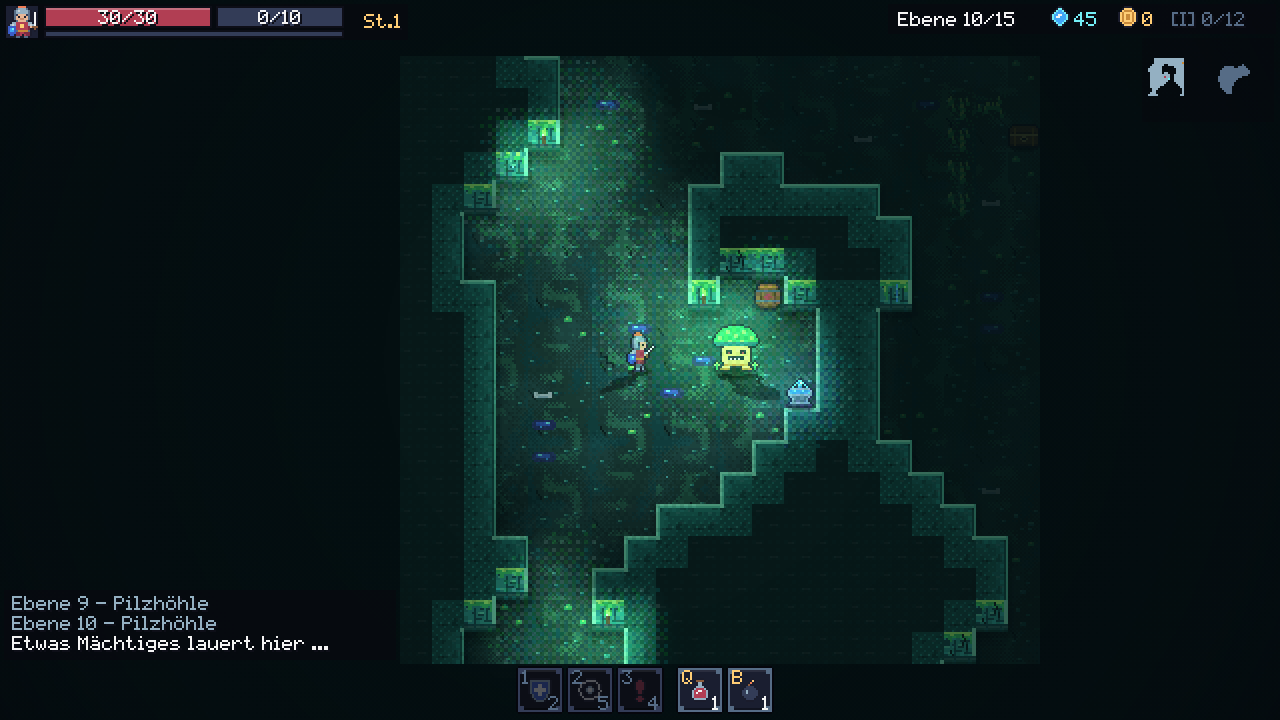
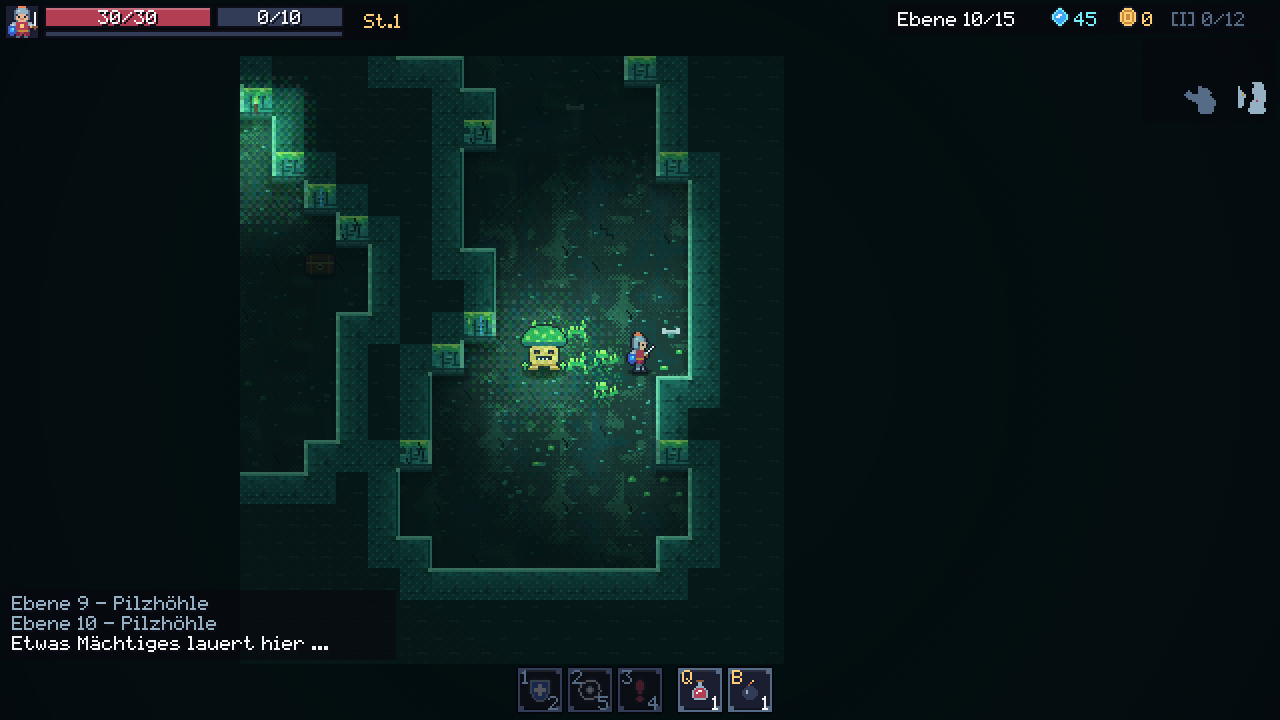
Ohne Schlagschatten der Figuren; Dekor mit Abstand und nur an passenden Stellen
- Schlagschatten von Figuren entfernt (sprangen mit dem Flackern zwischen Flammen hin und her);
  Licht und Bodenschatten bleiben
- Dekor: höchstens ein Stück im Umkreis von 4 Feldern, insgesamt seltener;
  Wanddekor nur auf gerader Wandstrecke und nicht neben Fackeln, Wandfuß nur in Räumen
  ab drei Feldern Tiefe, Bodendekor nur in großen Räumen (5×5 frei)
- Platzierung je Ebene zwischengespeichert, neu bei Kartenänderung
- Test: Mindestabstand und strengere Regeln

Claude-Session: https://claude.ai/code/session_01TMNu2fsQ35aYg53JpeGmq3

diff --git a/src/render/props.ts b/src/render/props.ts
@@ -136,27 +136,62 @@ function sets(): BiomeProps[] {
 }
 
 // ---- Platzierung (rein, testbar) ----
+// Erst Kandidaten nach festen Regeln, dann Abstand: von Kandidaten, die näher als SPACING Felder
+// beieinanderliegen, bleibt nur einer (der mit dem größten Hash) – keine Häufchen gleicher Dinge.
 export type PropKind = 'wall' | 'foot' | 'flat';
+export interface PropSpot { kind: PropKind; pick: number; }
+export const SPACING = 4;
 const hp = (x: number, y: number, s: number) => (Math.imul(x, 73856093) ^ Math.imul(y, 19349663) ^ Math.imul(s, 83492791)) >>> 0;
 
-// Welche Art Dekor gehört auf dieses Feld? null = keins
-export function propAt(tiles: Uint8Array, seed: number, x: number, y: number): { kind: PropKind; pick: number } | null {
-  if (x < 1 || y < 1 || x >= W - 1 || y >= H - 1) return null;
+function candidate(tiles: Uint8Array, seed: number, x: number, y: number): (PropSpot & { h: number }) | null {
+  if (x < 2 || y < 2 || x >= W - 2 || y >= H - 2) return null;
   const i = y * W + x, t = tiles[i], h = hp(x, y, seed);
-  const wall = (dx: number, dy: number) => wallLike(tiles[i + dy * W + dx]);
+  const at = (dx: number, dy: number) => tiles[i + dy * W + dx];
+  const wallAt = (dx: number, dy: number) => wallLike(at(dx, dy));
+  const free = (dx: number, dy: number) => !opaque(at(dx, dy)) && !wallLike(at(dx, dy));
   if (t === T.WALL) {
-    // Wandfront: unten offener Boden
-    return !wallLike(tiles[i + W]) && h % 4 === 0 ? { kind: 'wall', pick: h >>> 5 } : null;
+    // Wandfront auf gerader Strecke: links und rechts ebenfalls Front, kein Durchgang, keine Ecke
+    const front = (dx: number) => at(dx, 0) === T.WALL && free(dx, 1);
+    return front(0) && front(-1) && front(1) && h % 6 === 0 ? { kind: 'wall', pick: h >>> 5, h } : null;
   }
   if (t !== T.FLOOR) return null;
-  // am Wandfuß: Wand darüber, links, rechts und darunter frei – nie in einem Gang
-  if (wall(0, -1) && !wall(-1, 0) && !wall(1, 0) && !wall(0, 1) && !opaque(tiles[i + W]) && h % 5 === 0) return { kind: 'foot', pick: h >>> 5 };
-  // mitten im Raum: alle acht Nachbarn offen
-  for (let dy = -1; dy <= 1; dy++) for (let dx = -1; dx <= 1; dx++) if ((dx || dy) && opaque(tiles[i + dy * W + dx])) return null;
-  return h % 17 === 0 ? { kind: 'flat', pick: h >>> 5 } : null;
+  // am Fuß einer geraden Wand in einem Raum, der mindestens drei Felder tief ist
+  if (wallAt(-1, -1) && wallAt(0, -1) && wallAt(1, -1) && free(-1, 0) && free(1, 0) && free(0, 1) && free(-1, 1) && free(1, 1) && free(0, 2))
+    return h % 8 === 0 ? { kind: 'foot', pick: h >>> 5, h } : null;
+  // flach im Boden nur in großen Räumen: 5×5 ringsum frei
+  for (let dy = -2; dy <= 2; dy++) for (let dx = -2; dx <= 2; dx++) if (!free(dx, dy)) return null;
+  return h % 23 === 0 ? { kind: 'flat', pick: h >>> 5, h } : null;
 }
 
-export function drawProp(ctx: CanvasRenderingContext2D, bi: number, p: { kind: PropKind; pick: number }, x: number, y: number, dx: number, dy: number, time: number, lights: Light[]) {
+// Dekor der ganzen Ebene; zwischengespeichert, neu berechnet, sobald sich die Karte ändert
+let cache: { seed: number; tiles: Uint8Array; map: (PropSpot | null)[] } | null = null;
+export function propsFor(tiles: Uint8Array, seed: number): (PropSpot | null)[] {
+  if (cache && cache.seed === seed && cache.tiles.length === tiles.length) {
+    let same = true;
+    for (let i = 0; i < tiles.length; i++) if (cache.tiles[i] !== tiles[i]) { same = false; break; }
+    if (same) return cache.map;
+  }
+  const cand: ((PropSpot & { h: number }) | null)[] = new Array(W * H).fill(null);
+  for (let y = 0; y < H; y++) for (let x = 0; x < W; x++) cand[y * W + x] = candidate(tiles, seed, x, y);
+  const map: (PropSpot | null)[] = new Array(W * H).fill(null);
+  for (let y = 0; y < H; y++) for (let x = 0; x < W; x++) {
+    const c = cand[y * W + x];
+    if (!c) continue;
+    let best = true;
+    for (let dy = -SPACING; dy <= SPACING && best; dy++) for (let dx = -SPACING; dx <= SPACING; dx++) {
+      const nx = x + dx, ny = y + dy;
+      if ((!dx && !dy) || nx < 0 || ny < 0 || nx >= W || ny >= H) continue;
+      const o = cand[ny * W + nx];
+      if (o && (o.h > c.h || (o.h === c.h && ny * W + nx < y * W + x))) { best = false; break; }
+    }
+    if (best) map[y * W + x] = { kind: c.kind, pick: c.pick };
+  }
+  cache = { seed, tiles: tiles.slice(), map };
+  return map;
+}
+export const propAt = (tiles: Uint8Array, seed: number, x: number, y: number) => propsFor(tiles, seed)[y * W + x];
+
+export function drawProp(ctx: CanvasRenderingContext2D, bi: number, p: PropSpot, x: number, y: number, dx: number, dy: number, time: number, lights: Light[]) {
   const list = sets()[bi][p.kind], prop = list[p.pick % list.length];
   const f = prop.frames.length > 1 ? Math.floor(time * 4 + x * 0.7 + y) % prop.frames.length : 0;
   ctx.drawImage(prop.frames[f], dx, dy);

diff --git a/src/render/draw.ts b/src/render/draw.ts
@@ -5,9 +5,9 @@ import { threatOf, statusMarks } from './warn';
 import { onDeath, drawDecals, drawDying, resetDeaths, reducedFx } from './deaths';
 import { drawItemIcon, drawIcon, PERK_ICON } from './icons';
 import { Light, applyLight, AMBIENTS } from './light';
-import { dropShadow, drawAO, castFrom, castShadow, beginShadows, flushShadows } from './shade';
+import { dropShadow, drawAO } from './shade';
 import { floorTint, softEdged } from './tiles';
-import { propAt, drawProp, recolor } from './props';
+import { propsFor, drawProp, recolor } from './props';
 import { stepAmbient, drawAmbient, drawFog, resetAmbient, postFx } from './ambient';
 
 // Arena des Bosses: Fackeln brennen in seiner Farbe [außen, Kern], dazu eine Aura um ihn
@@ -186,9 +186,9 @@ export function drawRun(ctx: CanvasRenderingContext2D, run: Run, dt: number, tim
   view.ox = ox - sx; view.oy = oy - sy;
   ctx.fillStyle = '#08090f'; ctx.fillRect(0, 0, VW, VH);
   const bio = biomeOf(run.floor), ts = tilesets[bio], boss = run.floor % 5 === 0, fx = !reducedFx();
+  const props = propsFor(run.tiles, run.seed + run.floor);
   buildLight(run);
   const lights: Light[] = [], floorTiles: number[] = [];
-  beginShadows(VW, VH);
   const flick = (n: number) => 0.92 + 0.08 * Math.sin(time * 9 + n) + 0.04 * Math.sin(time * 23 + n * 1.7);
   const x0 = Math.max(0, Math.floor(cam.x / TS) - 1), x1 = Math.min(W - 1, x0 + VW / TS + 2);
   const y0 = Math.max(0, Math.floor(cam.y / TS) - 1), y1 = Math.min(H - 1, y0 + Math.ceil(VH / TS) + 2);
@@ -225,9 +225,9 @@ export function drawRun(ctx: CanvasRenderingContext2D, run: Run, dt: number, tim
         const tf = Math.floor(time * 7 + x) % 2;
         ctx.drawImage(boss ? torchOf(bio, tf) : sprites[`torch${tf}`], dx, dy);
         lights.push({ x, y: y + 0.6, r: (boss ? 5.5 : 5) * flick(i), col: boss ? BOSS_FLAME[bio][0] : '#ef7d57' });
-      } else if (front && hv < 5 && t === T.WALL) {
+      } else if (front && hv < 5 && t === T.WALL && !torches.has(i - 1) && !torches.has(i + 1)) {
         // Wanddekor (Ketten, Banner, Wurzeln …) nur auf der schlichten Grundwand
-        const pr = propAt(run.tiles, run.seed + run.floor, x, y);
+        const pr = props[i];
         if (pr) drawProp(ctx, bio, pr, x, y, dx, dy, time, lights);
       }
     } else {
@@ -242,7 +242,7 @@ export function drawRun(ctx: CanvasRenderingContext2D, run: Run, dt: number, tim
       if (t === T.GRASS) ctx.drawImage(softEdged(ts.bed, edge(T.GRASS)), dx, dy);
       drawAO(ctx, run.tiles, x, y, dx, dy);
       if (t === T.FLOOR) {
-        const pr = propAt(run.tiles, run.seed + run.floor, x, y);
+        const pr = props[i];
         if (pr) drawProp(ctx, bio, pr, x, y, dx, dy, time, lights);
         else { const h = hash(x, y, run.seed + run.floor * 7); if (h % 9 === 0) ctx.drawImage(ts.decals[(h >>> 8) % ts.decals.length], dx, dy); }
       }
@@ -356,8 +356,6 @@ export function drawRun(ctx: CanvasRenderingContext2D, run: Run, dt: number, tim
     const fly = FLY.has(a.kind), foot = by + 14;
     if (fly) dropShadow(ctx, bx + 8, foot, 8 + (Math.sin(time * 5 + a.id) > 0 ? 2 : 0), glow ? 0.5 : 0.8);
     else dropShadow(ctx, bx + 8, foot, a.boss ? 22 : 12, glow ? 0.5 : 1);
-    // Schlagschatten von der nächsten Flamme weg (Fackel, Feuer, Glutwesen)
-    if (!fly && !glow && !reducedFx() && !(a === p && deathT >= 0)) { const c = castFrom(lights, q.x, q.y); if (c) castShadow(masks[frame], bx + 8 + jx, foot, mirror, c); }
     // Ausweichen: Held flackert halbdurchsichtig
     if (statusMarks(a, a === p).includes('dodge')) ctx.globalAlpha = 0.55 + 0.25 * Math.sin(time * 18);
     blit(img);
@@ -554,7 +552,6 @@ export function drawRun(ctx: CanvasRenderingContext2D, run: Run, dt: number, tim
   for (const b of bolts) lights.push({ x: b.x1, y: b.y1, r: 2, col: b.col === '#1a1c2c' ? undefined : b.col, a: 0.7 });
   const amb = AMBIENTS[bio];
   applyLight(ctx, run, lights, ox, oy, boss ? { ...amb, dark: Math.min(0.9, amb.dark + 0.05) } : amb, VW, VH, fx);
-  flushShadows(ctx, run.tiles, run.vis, ox, oy, x0, y0, x1, y1);
   if (fx) drawAmbient(ctx, ox, oy, true); // Glutfunken leuchten selbst
   postFx(ctx, bio, VW, VH);
   // Schadenszahlen über der Dunkelheit, damit sie lesbar bleiben

diff --git a/src/render/shade.ts b/src/render/shade.ts
@@ -1,9 +1,7 @@
 // Schatten und Umgebungsverdeckung (nur Darstellung).
 // - Bodenschatten: Pixel-Ellipsen unter Figuren und Gegenständen
 // - AO: Boden an Wänden und in Innenecken abgedunkelt (je Nachbarmuster einmal gebacken)
-// - Schlagschatten: flachgedrückte Silhouette, von der nächsten Flamme weg geworfen
 import { W, H, wallLike } from '../game/dungeon';
-import type { Light } from './light';
 
 const TS = 16;
 const mk = (w: number, h: number): [HTMLCanvasElement, CanvasRenderingContext2D] => {
@@ -61,69 +59,4 @@ export function aoBits(tiles: Uint8Array, x: number, y: number): number {
 export function drawAO(ctx: CanvasRenderingContext2D, tiles: Uint8Array, x: number, y: number, dx: number, dy: number) {
   const b = aoBits(tiles, x, y);
   if (b) ctx.drawImage(aoTile(b), dx, dy);
-}
-
-// ---- Schlagschatten von Flammen ----
-const darks = new WeakMap<HTMLCanvasElement, HTMLCanvasElement>();
-function darkOf(mask: HTMLCanvasElement): HTMLCanvasElement {
-  let d = darks.get(mask);
-  if (d) return d;
-  const [c, g] = mk(mask.width, mask.height);
-  g.drawImage(mask, 0, 0);
-  g.globalCompositeOperation = 'source-in';
-  g.fillStyle = '#000'; g.fillRect(0, 0, c.width, c.height);
-  darks.set(mask, c);
-  return c;
-}
-
-// Nächste Flamme (farbiges, kräftiges Licht) in Reichweite: Richtung und Stärke, sonst null
-export function castFrom(lights: Light[], x: number, y: number): { ux: number; uy: number; k: number } | null {
-  let best: { ux: number; uy: number; k: number } | null = null;
-  for (const L of lights) {
-    if (!L.col || (L.a ?? 1) < 0.9 || L.r < 2.5) continue;
-    const dx = x - L.x, dy = y - L.y, d = Math.hypot(dx, dy);
-    if (d < 0.5 || d > L.r * 0.9) continue;
-    const k = 1 - d / (L.r * 0.9);
-    if (!best || k > best.k) best = { ux: dx / d, uy: dy / d, k };
-  }
-  return best;
-}
-
-// Schlagschatten liegen auf einer eigenen Ebene, die nach dem Licht aufgetragen wird –
-// sonst hellt das additive Glühen sie wieder auf. Sie fallen nur nach vorn (unten) und
-// zur Seite, nie nach hinten über die eigene Figur.
-let layer: HTMLCanvasElement | null = null, lctx: CanvasRenderingContext2D;
-let used = false;
-export function beginShadows(vw: number, vh: number) {
-  if (!layer || layer.width !== vw || layer.height !== vh) { [layer, lctx] = mk(vw, vh); lctx.imageSmoothingEnabled = false; }
-  if (used) lctx.clearRect(0, 0, vw, vh);
-  used = false;
-}
-// Schatten nur auf sichtbarem Boden: Wände und Dunkel werden aus der Ebene gestanzt
-export function flushShadows(ctx: CanvasRenderingContext2D, tiles: Uint8Array, vis: Uint8Array, ox: number, oy: number, x0: number, y0: number, x1: number, y1: number) {
-  if (!used || !layer) return;
-  const g = lctx;
-  g.globalCompositeOperation = 'destination-out';
-  g.fillStyle = '#000';
-  for (let y = y0; y <= y1; y++) for (let x = x0; x <= x1; x++) {
-    const i = y * W + x;
-    if (!vis[i] || wallLike(tiles[i])) g.fillRect(x * TS + ox, y * TS + oy, TS, TS);
-  }
-  g.globalCompositeOperation = 'source-over';
-  ctx.globalAlpha = 0.5;
-  ctx.drawImage(layer, 0, 0);
-  ctx.globalAlpha = 1;
-}
-// Silhouette am Fußpunkt (fx, fy) flach auf den Boden legen, von der Lichtquelle weg geneigt
-export function castShadow(mask: HTMLCanvasElement, fx: number, fy: number, mirror: boolean, c: { ux: number; uy: number; k: number }) {
-  if (!layer || c.uy < -0.35) return;
-  const img = darkOf(mask), h = img.height;
-  const sy = -(0.3 + 0.3 * Math.max(0, c.uy));
-  const g = lctx;
-  g.save();
-  g.globalAlpha = 0.5 + 0.5 * c.k;
-  g.transform(mirror ? -1 : 1, 0, -1.1 * c.ux, sy, Math.round(fx), Math.round(fy) + 1);
-  g.drawImage(img, -img.width / 2, -h);
-  g.restore();
-  used = true;
 }

diff --git a/tests/render-props.test.ts b/tests/render-props.test.ts
@@ -1,7 +1,7 @@
 import { describe, it, expect } from 'vitest';
 import { RNG } from '../src/core/rng';
 import { genDungeon, W, H, T, wallLike, walkable } from '../src/game/dungeon';
-import { propAt } from '../src/render/props';
+import { propAt, SPACING } from '../src/render/props';
 
 // Dekor ist reine Darstellung: fest am Feld, nur auf Wandfront oder freiem Boden, nie in einem Gang
 describe('Dekor je Biom', () => {
@@ -15,16 +15,24 @@ describe('Dekor je Biom', () => {
         expect(propAt(tiles, seed, x, y)).toEqual(p);
         if (!p) continue;
         n++;
-        if (p.kind === 'wall') { expect(tiles[i]).toBe(T.WALL); expect(wallLike(tiles[i + W])).toBe(false); continue; }
+        if (p.kind === 'wall') {
+          // gerade Wandstrecke: auch links und rechts Front
+          for (const d of [-1, 0, 1]) { expect(tiles[i + d]).toBe(T.WALL); expect(wallLike(tiles[i + d + W])).toBe(false); }
+          continue;
+        }
         expect(tiles[i]).toBe(T.FLOOR);
         if (p.kind === 'foot') {
-          expect(wallLike(tiles[i - W])).toBe(true);
-          // links, rechts und unten offen: kein Gang wird optisch versperrt
-          for (const d of [-1, 1, W]) expect(walkable(tiles[i + d])).toBe(true);
+          for (const d of [-W - 1, -W, -W + 1]) expect(wallLike(tiles[i + d])).toBe(true);
+          // links, rechts und zwei Felder nach unten offen: Raum, kein Gang
+          for (const d of [-1, 1, W, 2 * W]) expect(walkable(tiles[i + d])).toBe(true);
         }
-        if (p.kind === 'flat') for (let dy = -1; dy <= 1; dy++) for (let dx = -1; dx <= 1; dx++) expect(wallLike(tiles[i + dy * W + dx])).toBe(false);
+        if (p.kind === 'flat') for (let dy = -2; dy <= 2; dy++) for (let dx = -2; dx <= 2; dx++) expect(wallLike(tiles[i + dy * W + dx])).toBe(false);
       }
-      expect(n).toBeGreaterThan(5);
+      expect(n).toBeGreaterThan(2);
+      // nie zwei Stücke dicht beieinander
+      const spots: [number, number][] = [];
+      for (let y = 0; y < H; y++) for (let x = 0; x < W; x++) if (propAt(tiles, seed, x, y)) spots.push([x, y]);
+      for (const [ax, ay] of spots) for (const [bx, by] of spots) if (ax !== bx || ay !== by) expect(Math.max(Math.abs(ax - bx), Math.abs(ay - by))).toBeGreaterThan(SPACING);
       expect(tiles).toEqual(before);
     }
   });
